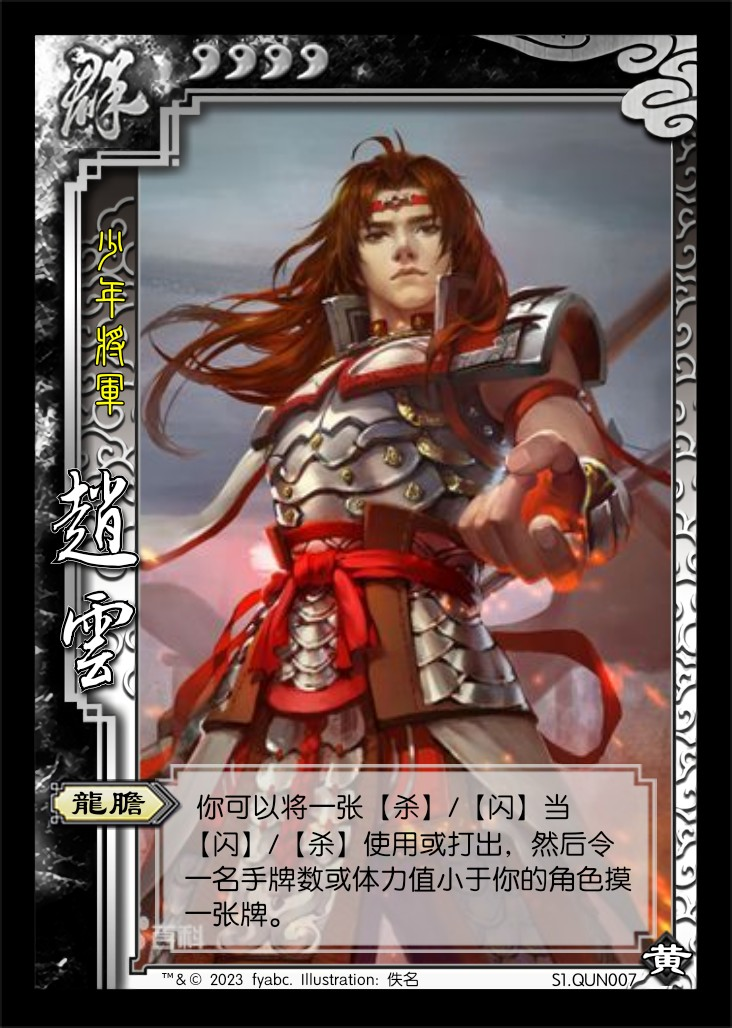
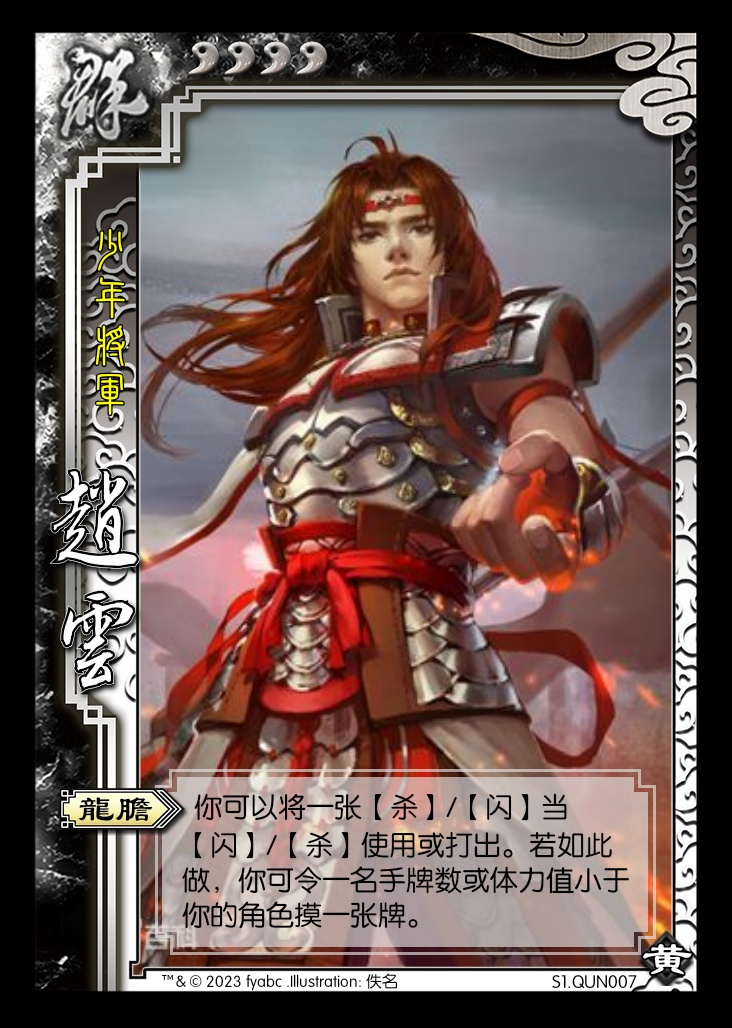
Update version of zhaoyun.

diff --git a/SanGuoSha/SGS-RebirthProject/standard.md b/SanGuoSha/SGS-RebirthProject/standard.md
@@ -185,9 +185,10 @@
     > 【观星】的上限由5改为7，稍有加强，且与神诸葛“七星”一致。
     > 【观星】其余的牌中，几张置于牌堆底，几张置于弃牌堆是自己任选的，且置于弃牌堆的牌不被视为弃置。  
     > 与【火攻】的修改对应，这里增加了对【火攻】的防御。
-6. ![赵云](./assets/images/standard/ST-赵云-v2.jpg) SHU006 赵云 男 蜀 4体力 称号：少年将军
-    1. 【龙胆】：你可以将一张【杀】/【闪】当【闪】/【杀】使用或打出。
-    2. 【救主】：当一名其他角色于其回合外需要使用或打出一张【杀】/【闪】时，你可以打出一张【杀】/【闪】，然后视为该角色使用或打出了一张【杀】/【闪】。
+6. ![赵云](./assets/images/standard/ST-SHU006-赵云-v3.jpg) SHU006 赵云 男 蜀 4体力 称号：少年将军
+    1. 【龙胆】：你可以将一张【杀】/【闪】当【闪】/【杀】使用或打出。若如此做，你可令一名手牌数或体力值小于你的角色摸一张牌。
+
+    > 增加简单的辅助补牌能力。  
 7. ![马超](./assets/images/standard/ST-马超-v2.png) SHU007 马超 男 蜀 4体力 称号：一骑当千
     1. 【马术】：**锁定技**，你计算与其他角色的距离-1。
     2. 【铁骑】：当你使用【杀】指定一个目标后，你可以摸一张牌然后弃置一张牌，若弃置的牌为：红色，该角色不能使用【闪】响应此【杀】；黑色，本回合该角色所有非锁定技失效。

diff --git a/SanGuoSha/SGS-RebirthProject/scenes/scene1.md b/SanGuoSha/SGS-RebirthProject/scenes/scene1.md
@@ -334,9 +334,9 @@
 
     > 无改动。  
 7. ![赵云](../assets/images/scenes/scene1/S1.QUN007-赵云.jpg) S1.QUN007 赵云 男 群 4体力 称号：少年将军
-    1. 【龙胆】：你可以将一张【杀】/【闪】当【闪】/【杀】使用或打出，然后令一名手牌数或体力值小于你的角色摸一张牌。
+    1. 【龙胆】：你可以将一张【杀】/【闪】当【闪】/【杀】使用或打出。若如此做，你可令一名手牌数或体力值小于你的角色摸一张牌。
 
-    > 基于身份赵云进行微调，去掉了询问量过大且事迹不甚符合本模式的【救主】，替换为较为直接的给队友补牌。  
+    > 无改动。  
 8. ![张鲁](../assets/images/scenes/scene1/S1.QUN008-张鲁.jpg) S1.QUN008 张鲁 男 群 3体力 称号：政宽教惠
     1. 【义舍】：结束阶段，若你没有“米”，你可以摸两张牌，然后将两张牌置于武将牌上，称为“米”；当你移去最后一张“米”时，你回复1点体力。
     2. 【布施】：当你受到伤害后，你可以获得一张“米”；当你对其他角色造成伤害后，其可以获得一张“米”。

diff --git a/SanGuoSha/SGS-RebirthProject/real-cards.md b/SanGuoSha/SGS-RebirthProject/real-cards.md
@@ -1,6 +1,6 @@
 # 实体牌相关事项（待修改）
 
-1. [ ] 标准：周瑜fix，张辽v2，甘宁v2，许褚v3，马超v2，司马懿v2，夏侯惇v2，吕蒙v2
+1. [ ] 标准：周瑜fix，张辽v2，甘宁v2，许褚v3，马超v2，司马懿v2，夏侯惇v2，吕蒙v2，赵云v3
 2. [ ] 扩展1：张让bugfix，黄钺v2，皇甫嵩v2，SP刘备v2，SP刘宏改编号
 3. [ ] 扩展2：骅骝v2，SP貂蝉改编号，4张鸩毒fix，唐姬fix，刘辩v2，李儒v2，神貂蝉v2
 4. [ ] 扩展3：SP袁绍改编号，SP孙坚改编号，SP诸葛亮改编号、3张冲阵fix、两张巧取fix、鲍信fix描述
